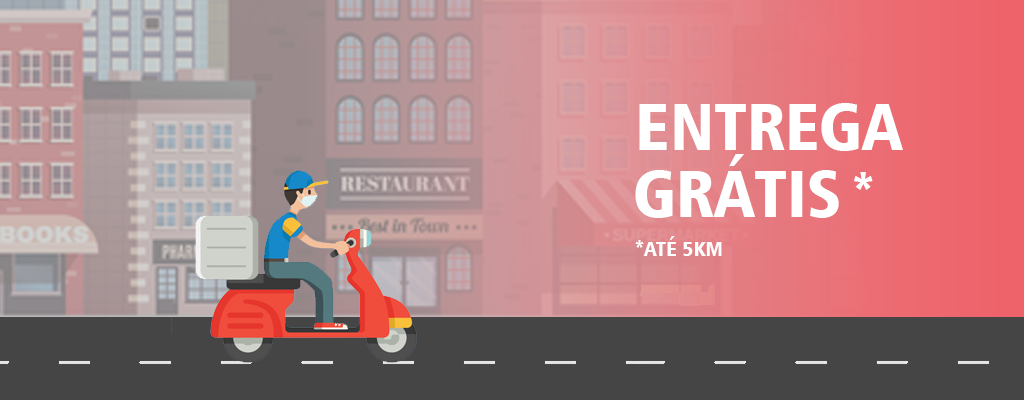
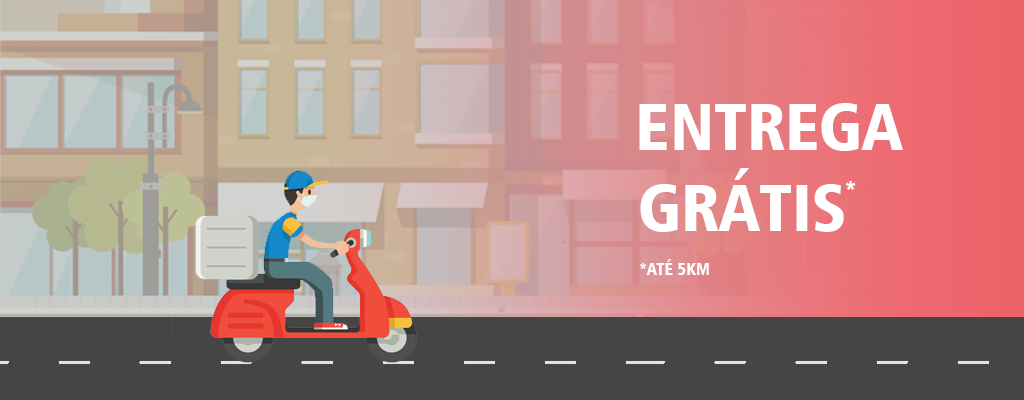
atualização nas correçoes de titulo do site

diff --git a/css/style.css b/css/style.css
@@ -1,8 +1,7 @@
 .banner-responsivo {
-    height: 400px;
+    min-height: 400px;
     width: 100%;
     background-image: url(../img/banner_drogstore_large_1440.png);
-    background-size: cover;
 }
 .my-divider.is-danger {
     border: 2px solid;
@@ -146,23 +145,49 @@ p.subtitle.is-6 > a[href*="whatsapp"] {
 .navbar-brand > a.navbar-item {
     width: 260px;
 }
+.navbar-brand > .navbar-item:hover {
+    color: #f05961;
+}
 @media only screen and (min-width: 1440px) {
     .banner-responsivo {
         background-image: url(../img/banner_drogstore_large_1440.png);
+        background-repeat: no-repeat;
+        background-size: cover;
+    }
+    .navbar-brand > a.navbar-item {
+        width: 400px;
     }
 }
 @media only screen and (max-width: 1024px) {
     .banner-responsivo {
         background-image: url(../img/banner_drogstore_large_1024.png);
     }
+    .action_contact a {
+        font-size: 20px;
+    }
+    .navbar-brand > a.navbar-item {
+        width: 400px;
+    }
 }
 @media only screen and (max-width: 768px) {
     .banner-responsivo {
         background-image: url(../img/banner_drogstore_large_768.png);
     }
+    .action_contact a {
+        font-size: 24px;
+    }
+    h4.title-brand {
+        font-size: 24px;
+    }
 }
 @media only screen and (min-width: 320px) and (max-width: 426px) {
     .banner-responsivo {
         background-image: url(../img/banner_drogstore_large_400.png);
+    }
+    .navbar-brand > a.navbar-item {
+        width: 260px;
+    }
+    h4.title-brand {
+        font-size: 16px;
     }
 }

diff --git a/index.html b/index.html
@@ -23,9 +23,9 @@
       <header>
         <nav class="navbar" role="navigation" aria-label="main navigation">
             <div class="navbar-brand">
-              <a class="navbar-item" href="https://bulma.io">
+              <a class="navbar-item" href="index.html">
                 <img src="img/logo_farmacia_do_bom_trabalhador.png" width="200" height="56">
-                <h4 class="subtitle is-6">Farmácia do Bom Trabalhador</h4>
+                <h4 class="title-brand">Farmácia do Bom Trabalhador</h4>
               </a>
           
               <a role="button" class="navbar-burger burger" aria-label="menu" aria-expanded="false" data-target="navbarBasicExample">
@@ -280,6 +280,7 @@
             <div class="columns">
                 <div class="column is-3 has-text-left">
                   <img src="img/logo_farmacia_do_bom_trabalhador.png" width="200" height="56">
+                  <h4 class="subtitle is-6">Farmácia do <br/>Bom Trabalhador</h4>
                 </div>
                 <div class="column is-3 has-text-left">
                   <h4 class="title is-6 is-spaced">HORÁRIO DE FUNCIONAMENTO:</h4>

diff --git a/contato.html b/contato.html
@@ -23,8 +23,9 @@
             <header>
                 <nav class="navbar" role="navigation" aria-label="main navigation">
                     <div class="navbar-brand">
-                    <a class="navbar-item" href="https://bulma.io">
+                    <a class="navbar-item" href="index.html">
                         <img src="img/logo_farmacia_do_bom_trabalhador.png" width="200" height="56">
+                        <h4 class="title-brand">Farmácia do Bom Trabalhador</h4>
                     </a>
                 
                     <a role="button" class="navbar-burger burger" aria-label="menu" aria-expanded="false" data-target="navbarBasicExample">

diff --git a/empresa.html b/empresa.html
@@ -23,8 +23,9 @@
             <header>
                 <nav class="navbar" role="navigation" aria-label="main navigation">
                     <div class="navbar-brand">
-                    <a class="navbar-item" href="https://bulma.io">
+                    <a class="navbar-item" href="index.html">
                         <img src="img/logo_farmacia_do_bom_trabalhador.png" width="200" height="56">
+                        <h4 class="title-brand">Farmácia do Bom Trabalhador</h4>
                     </a>
                 
                     <a role="button" class="navbar-burger burger" aria-label="menu" aria-expanded="false" data-target="navbarBasicExample">
